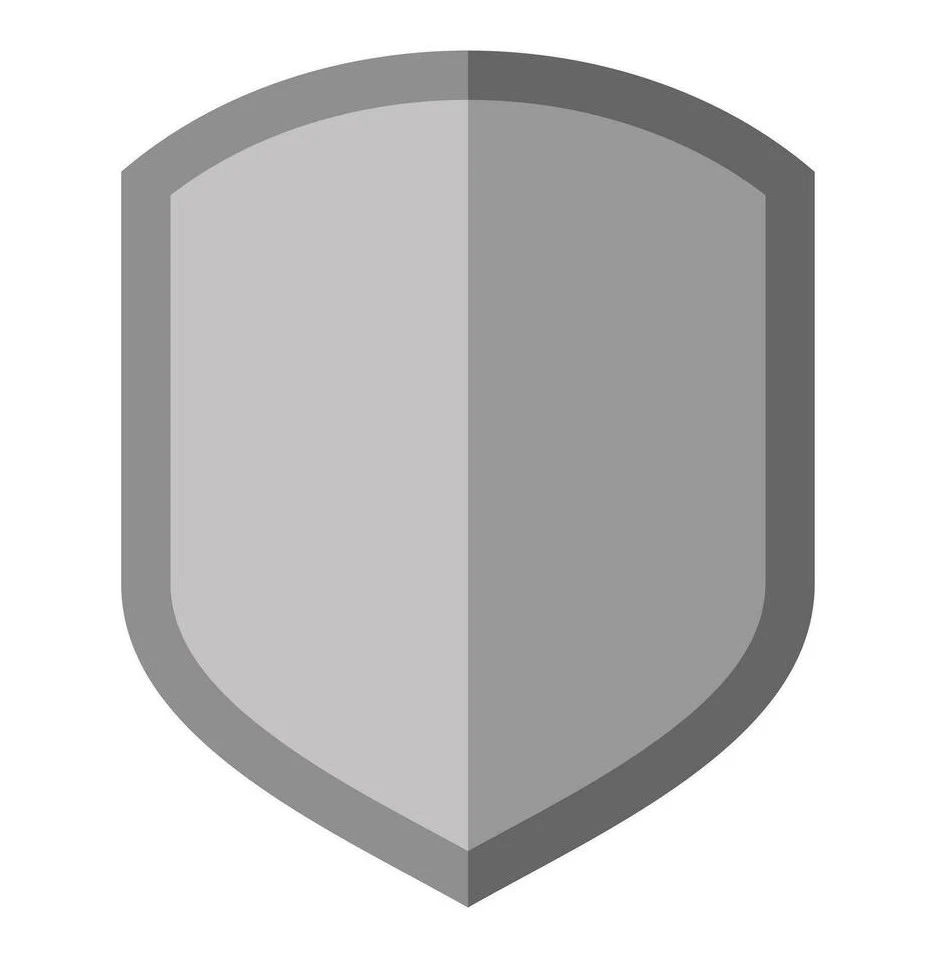
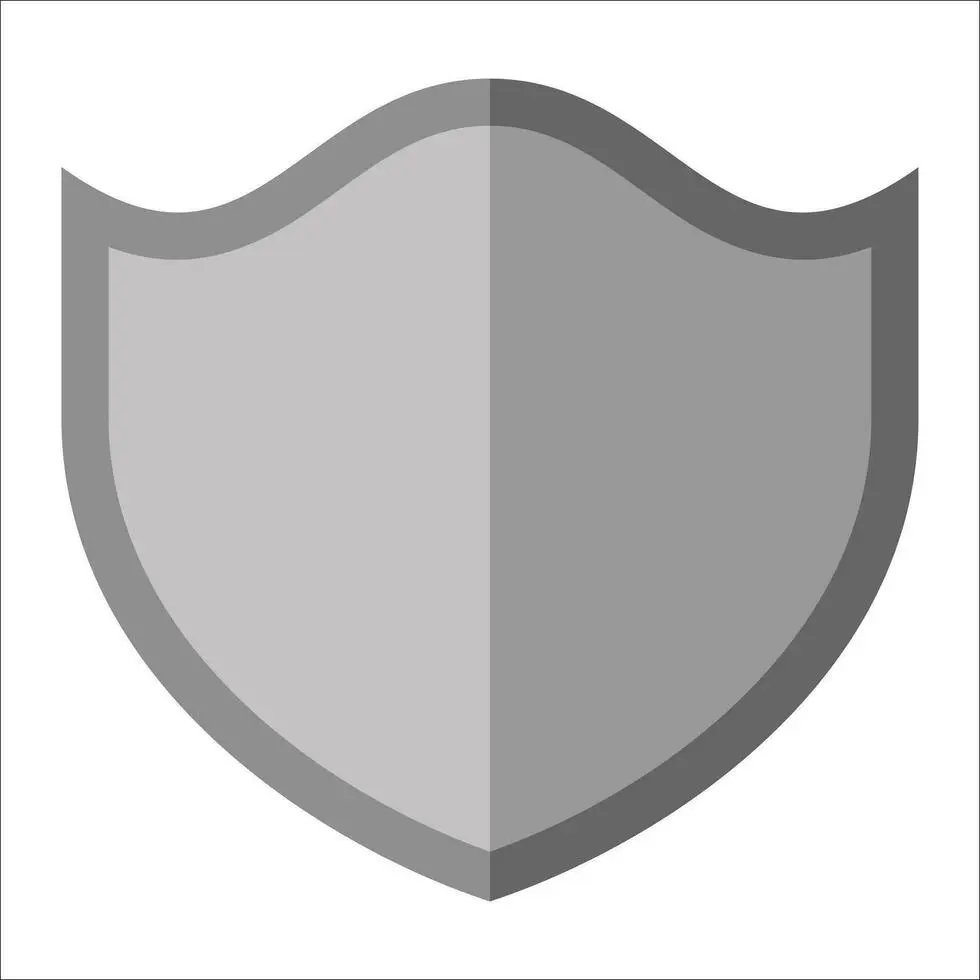
changed image used for steel, updated readme

diff --git a/README.md b/README.md
@@ -1,19 +1,19 @@
-#Elements Battle
+# Elements Battle
 Elements Battle is a webiste that allows users to play a game themed around the interactions of 5 different elements based on  "Rock, Paper Scissors, Lizard, Spock". The site's target user is anyone wishing to play a game with elements of chance.
 
-##Features
+## Features
 The site's html has been constructed to provide an uncomplicated layout. Aside from the title, it also contains an explanation of the rules of the game and an area for displaying the player's choice and the computers, as well as a counter to keep track of the player's score and the computer's
 
-##Testing
+## Testing
 Manual testing was conducted after the implementation of the javaScript to govern the interactions of the various elements by selecting each one in turn until the computer had cycled through all of the options to test that they had been implemented correctly. console.log() was used to confirm that these worked
 
 |Test|Outcome|
 |Testing button for each element to ensure each selected the right one|Passed|
 
-###Validation
+### Validation
 The HTML, CSS and javaScript were each run through the relevant validator websites, W3C for HTML and JavaScript, Jigsaw for CSS 
 
-##Bugs
+## Bugs
 Alignment of score areas was not in complete sync with picture areas, this was due to  them being in a separate div and not arrayed in a column
 function to display computer choices initially didn't work, on examination of code realised this was because the onclick attribute had not been added to the buttons. Once added, initially got an error message on clicking the buttons because options were not defined. Once defined, testing would not return steel as a computer choice. This was due to the math function being used incorrectly - multiplication factor of 4 was being used on the random number generated to attempt to capture steel in the array of choices, not realising that 5 was the correct factor as math.floor was being used in conjunction with math.random
 
@@ -32,12 +32,19 @@ On adding the function to increment the player's score on a win, initial attempt
 5. Navigating back to the repository's code page, then refreshing after a few minutes
 6. moving to the deployments section on the right side of the code page and opening the link from there
 
-##Credits
+## Credits
 computerchoice https://stackoverflow.com/questions/30179489/how-do-i-make-images-change-with-a-rock-paper-scissors-game
 
 lovemaths used as a template for score function
 
 https://www.youtube.com/watch?v=3uKdQx-SZ5A&t=697s used to help make gameManager
+
+Water image: https://www.stockio.com/free-icon/nature-icons-water-drop?utm_content=cmp-true
+Fire image: https://stock.adobe.com/search?k=fire+icon&asset_id=235263034
+Earth image: https://www.vecteezy.com/vector-art/9660869-earth-element-nature-vector-round-icon-for-design
+Air image: https://www.vectorstock.com/royalty-free-vector/abstract-air-symbol-vector-18170953
+Steel image: https://www.vecteezy.com/vector-art/35241602-silver-shield-icon-flat-vector-design-heraldic-symbol-award-badge-shape-medieval-metal-weapons
+Question Mark image: https://www.iconsdb.com/white-icons/question-mark-icon.html
 
 ## Acknowledgements
 I wish to acknowledge my mentor, Alan Bushell, who provided me with feedback and advice throughout this project. I wish also to acknowledge the Code Institute tutors, who provided valuable advice and insight when I had questions
